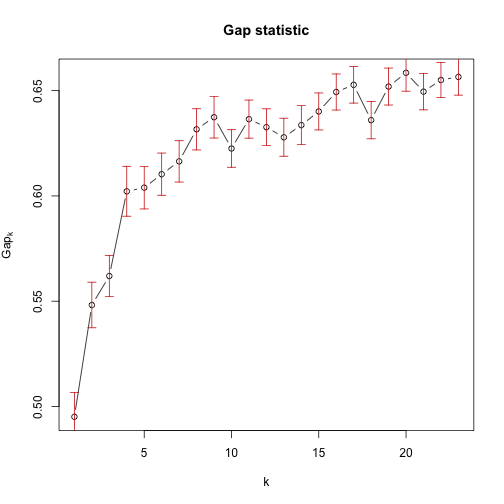
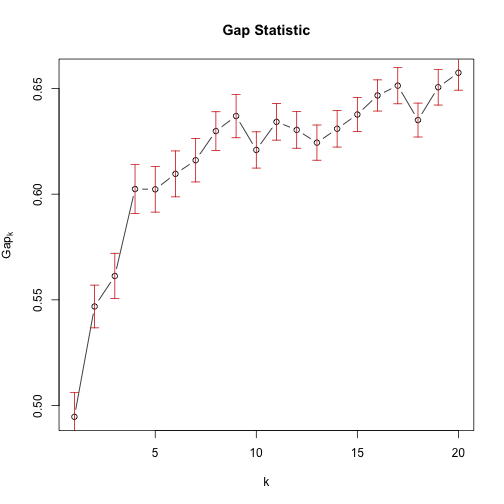
working local version

diff --git a/_posts/2015-05-19-genetic-networks-1.md b/_posts/2015-05-19-genetic-networks-1.md
@@ -36,6 +36,7 @@ wget https://github.com/rjcmarkelz/BIS180L_web/tree/feature-networks/data/us_cit
 
 
 ```r
+# make sure to change the path to where you downloaded this using wget
 cities <- read.table("../data/us_cities.txt", sep = "\t", header = TRUE)
 
 rownames(cities) <- cities$X # make the first column the rownames
@@ -83,6 +84,7 @@ wget https://github.com/rjcmarkelz/BIS180L_web/tree/feature-networks/data/voom_t
 
 
 ```r
+# make sure to change the path to where you downloaded this using wget
 DE_genes <- read.table("../data/DEgenes_GxE.csv", sep = ",")
 head(DE_genes) #check out the data
 ```
@@ -100,6 +102,7 @@ head(DE_genes) #check out the data
 ```r
 DE_gene_names <- row.names(DE_genes)
 
+# make sure to change the path to where you downloaded this using wget
 brass_voom_E <- read.table("../data/voom_transform_brassica.csv", sep = ",", header = TRUE)
 
 GxE_counts <- as.data.frame(brass_voom_E[DE_gene_names,])
@@ -155,7 +158,7 @@ install.packages("pvclust")
 ```
 ## 
 ## The downloaded binary packages are in
-## 	/var/folders/jh/6yqw6n710sj2xr9knz37tt0w0000gn/T//RtmptvNbyv/downloaded_packages
+## 	/var/folders/jh/6yqw6n710sj2xr9knz37tt0w0000gn/T//RtmpnDEcEE/downloaded_packages
 ```
 
 ```r
@@ -205,7 +208,7 @@ install.packages("gplots") #not to be confused with ggplot2!
 ```
 ## 
 ## The downloaded binary packages are in
-## 	/var/folders/jh/6yqw6n710sj2xr9knz37tt0w0000gn/T//RtmptvNbyv/downloaded_packages
+## 	/var/folders/jh/6yqw6n710sj2xr9knz37tt0w0000gn/T//RtmpnDEcEE/downloaded_packages
 ```
 
 ```r
@@ -273,12 +276,12 @@ K-means tries to fit "centering points" to your data by chopping your data up in
 # hints = c("Move centers!", "Find cluster?"), pch = 1:3, col = 1:3)
 ```
 
-Now that you have a sense for how this k-means works, lets apply what we know to our data.  Lets start with 9 clusters, but please play with the number of clusters and see how it changes the visualization.
+Now that you have a sense for how this k-means works, lets apply what we know to our data.  Lets start with 9 clusters, but please play with the number of clusters and see how it changes the visualization. We will need to run a quick Principle Component Analysis (similar to MDS), on the data in order to visualize how the clusters are changing with different k-values.
 
 
 ```r
 library(ggplot2)
-prcomp_counts <- prcomp(t(GxE_counts))
+prcomp_counts <- prcomp(t(GxE_counts)) #gene wise
 scores <- as.data.frame(prcomp_counts$rotation)[,c(1,2)]
 
 set.seed(25) #make this repeatable as kmeans has random starting positions
@@ -304,30 +307,32 @@ The final thing that we will do today is try to estimate, based on our data, wha
 
 
 ```r
-?clusGap
+install.packages("cluster")
 ```
 
 ```
-## No documentation for 'clusGap' in specified packages and libraries:
-## you could try '??clusGap'
+## 
+## The downloaded binary packages are in
+## 	/var/folders/jh/6yqw6n710sj2xr9knz37tt0w0000gn/T//RtmpnDEcEE/downloaded_packages
 ```
 
 ```r
+library(cluster)
 set.seed(125)
-gap <- clusGap(GxE_counts, FUN = kmeans, iter.max = 30, K.max = 23, B = 500, verbose=interactive())
+gap <- clusGap(GxE_counts, FUN = kmeans, iter.max = 30, K.max = 20, B = 50, verbose=interactive())
 ```
 
 ```
-## Error in eval(expr, envir, enclos): could not find function "clusGap"
+## Clustering k = 1,2,..., K.max (= 20): .. done
+## Bootstrapping, b = 1,2,..., B (= 50)  [one "." per sample]:
+## .................................................. 50
 ```
 
 ```r
-plot(gap, main = "Gap statistic")
+plot(gap, main = "Gap Statistic")
 ```
 
-```
-## Error in plot(gap, main = "Gap statistic"): object 'gap' not found
-```
+![plot of chunk unnamed-chunk-13]({{ site.baseurl }}/figure/unnamed-chunk-13-1.png) 
 This is also part of the cluster package that you loaded earlier. It will take a few minutes to calculate this statistic. In the mean time, check out some more information about it in the ?clusGap documentation. We could imagine that as we increase the number of k-means to estimate, we are always going to increase the fit of the data. The extreme examples of this would be if we had k = 255 for the total number of genes in the data set or k = 1. We would be able to fit the data perfectly in the k = 255 case, but what has it told us? It has not really told us anything. Just like you played with the number of k-means in Exercise 8, we can also do this computationally! We want optimize the fewest number of clusters that we have that can explain the variance in our dataset.
 
 **Exercise 9:** Based on this Gap statistic plot at what number of k clusters (x-axis) do you start to see diminishing returns? To put this another way, at what value of k does k-1 and k+1 start to look the same for the first time? Or yet another way, when are you getting diminishing returns for adding more k-means? See if you can make the tradeoff of trying to capture a lot of variation in the data as the Gap statistic increases, but you do not want to add too many k-means because your returns diminish as you add more. Explain your answer using the plot as a guide to help you interpret the data.
@@ -336,11 +341,11 @@ Now we can take a look at the plot again and also print to the terminal what clu
 
 
 ```r
-with(gap, maxSE(Tab[,"gap"], Tab[,"SE.sim"], method="globalmax"))
+with(gap, maxSE(Tab[,"gap"], Tab[,"SE.sim"], method="firstSEmax"))
 ```
 
 ```
-## Error in with(gap, maxSE(Tab[, "gap"], Tab[, "SE.sim"], method = "globalmax")): object 'gap' not found
+## [1] 4
 ```
 **Exercise 10:** What did clusGap() calculate? How does this compare to your answer from Exercise 9? Make a plot using the combined autoplot() and kmeans functions as you did before, but choose the number of k-means you chose and the number of k-means that are calculated from the Gap Statistic. Describe the differences in the plots.
 
